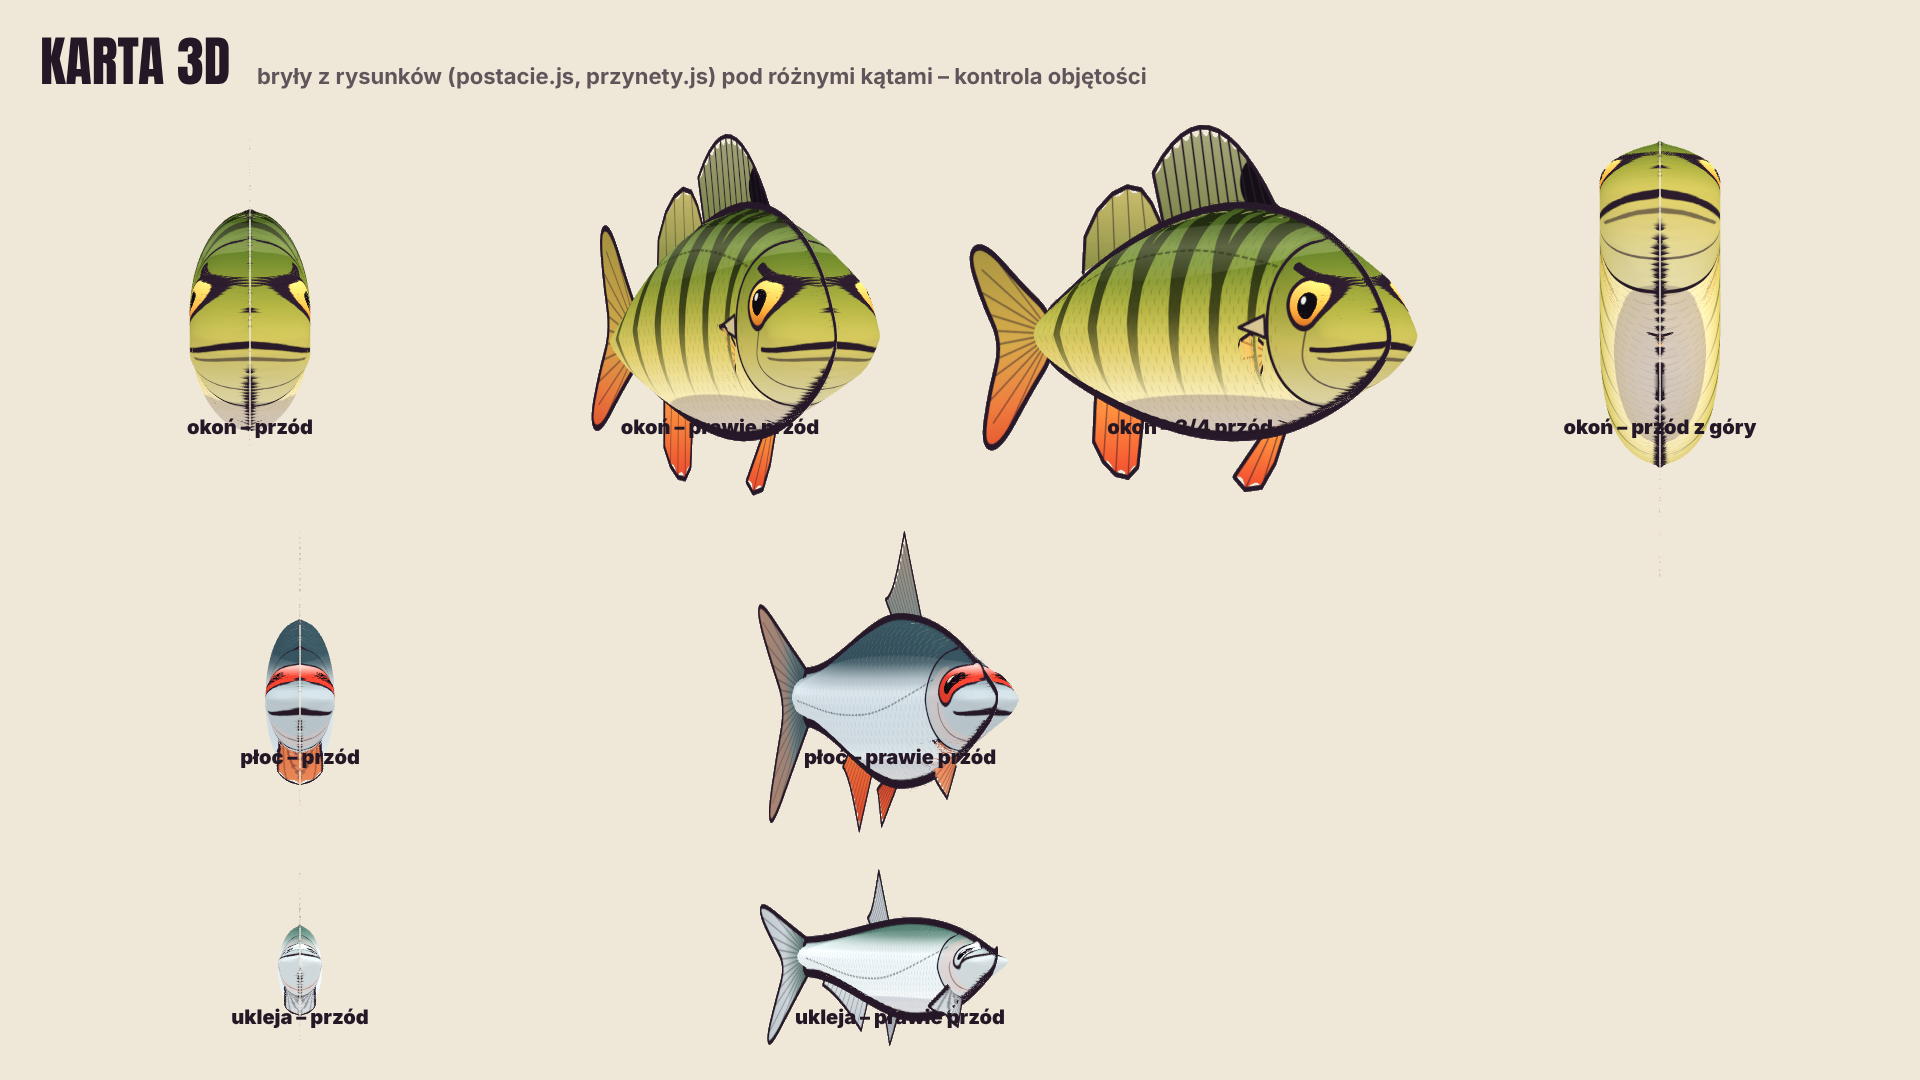
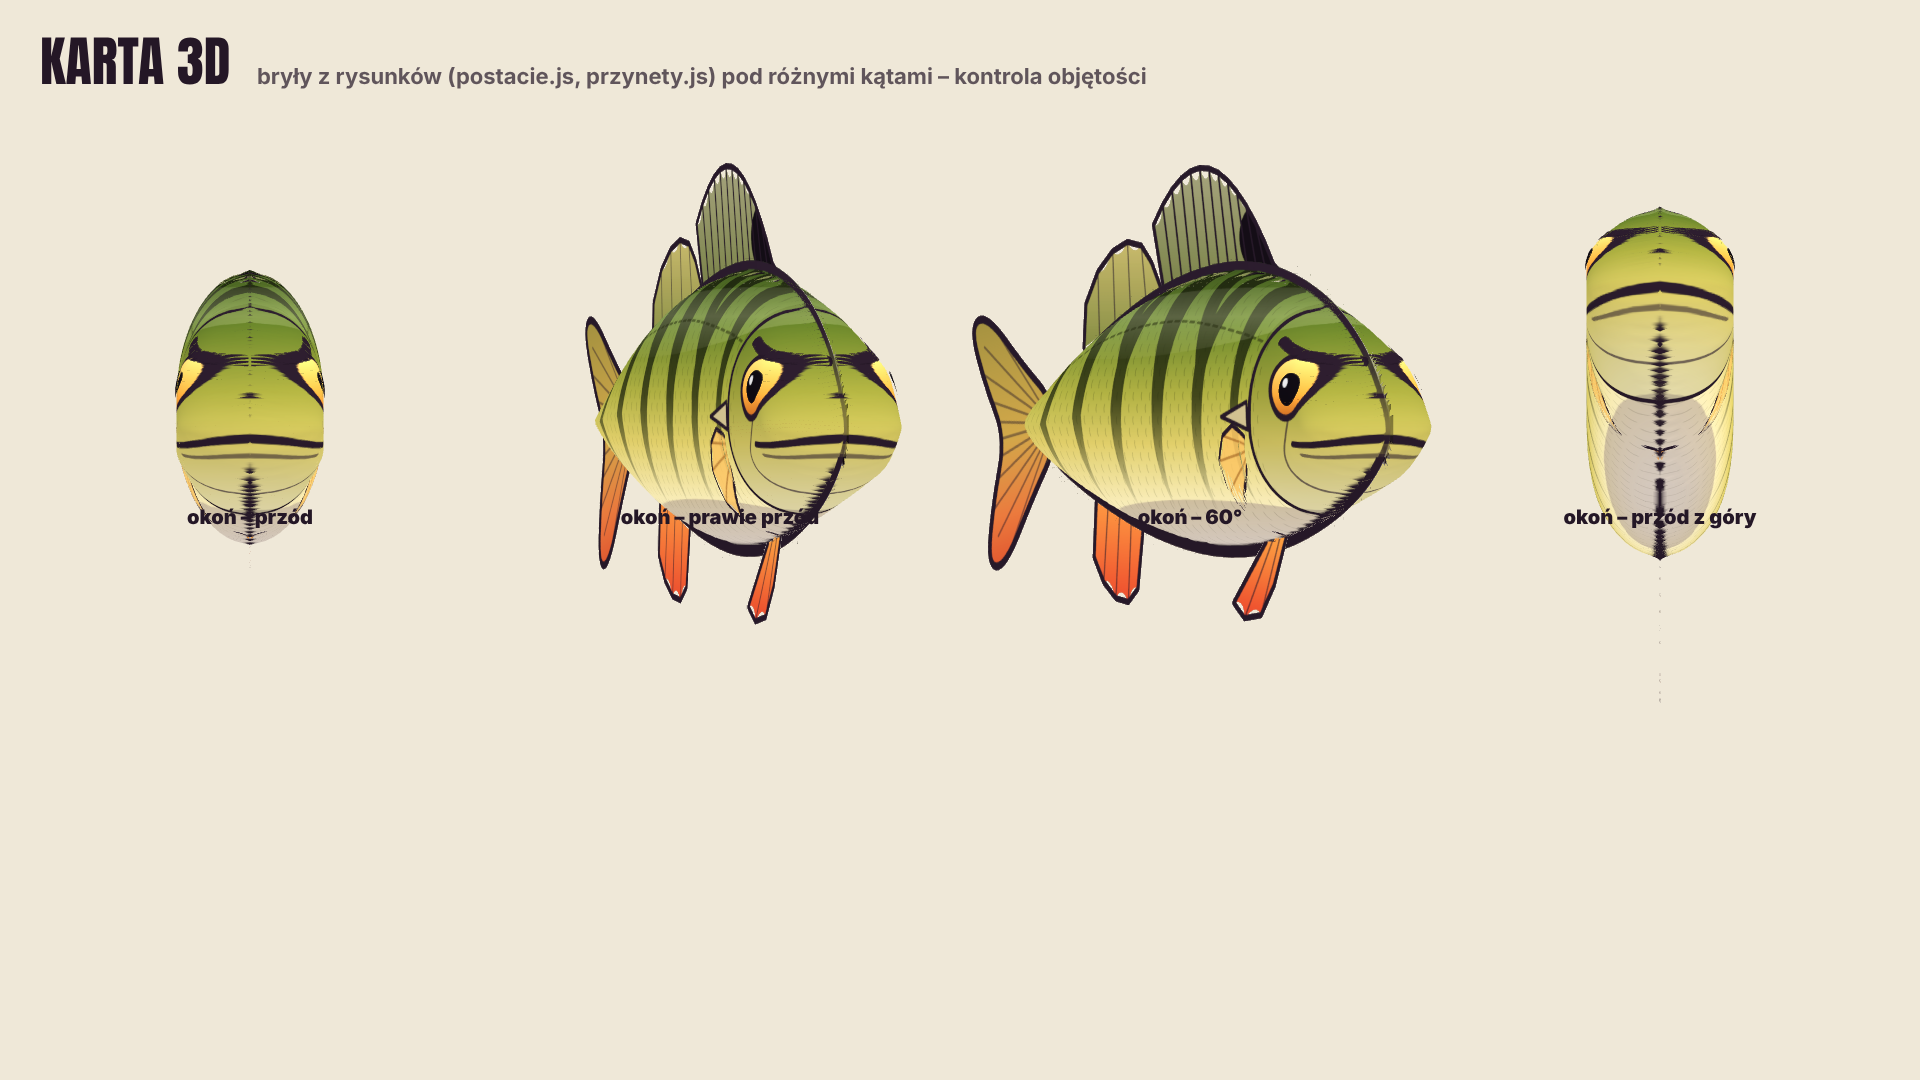
Mewa: gładka bryła (tułów z głową bez szwów), szary płaszcz kolorem, obrys skrzydeł i ogona; okoń: bez pionowej kreski z przodu (bryła bez rantu, kontur z rysunku tylko na brzegu sylwetki)
Claude-Session: https://claude.ai/code/session_01YFDAx3363ZnHR5mXZwci3a

diff --git a/atlas3d/rekwizyty.js b/atlas3d/rekwizyty.js
@@ -338,60 +338,67 @@ export function wazka({ dl = .3 } = {}) {
 }
 // mewa (śmieszka / mewa pospolita): biały tułów, szaro-popielate skrzydła z czarnymi końcami, żółty dziób; oś ciała +x = głowa
 // anim(t, { mach }) – machanie skrzydłami; skrzydła złożone (mach = 0) przy nurkowaniu
-// Mewa (śmieszka/srebrzysta, styl kreskówkowy): opływowy tułów z toczenia, szary płaszcz na grzbiecie, żółty zakrzywiony dziób z czerwoną plamką,
-// skrzydła z dwóch członów (ramię + dłoń) z namalowanym wzorem: szary wierzch, biała krawędź spływu, czarne końce z białymi „lusterkami”.
-// Ruch: machanie (dłoń z opóźnieniem względem ramienia → miękki łuk), szybowanie (lekkie „M”), nurkowanie (skrzydła złożone do tyłu).
-const MEWA_TEX = {};
-function mewaTekstura(rodzaj) {
-  if (MEWA_TEX[rodzaj]) return MEWA_TEX[rodzaj];
+// Mewa (styl kreskówkowy, jak ryby: kolor + rysowany obrys): gładki tułów z głową w jednej bryle (bez szwów, które kompozycja rysowała jako kreski),
+// szary płaszcz na grzbiecie malowany kolorem wierzchołków, żółty zakrzywiony dziób z czerwoną plamką, skrzydła z dwóch członów (ramię + dłoń)
+// i ogon z namalowanym wzorem i ciemnym obrysem (poza krawędzią przy tułowiu). Ruch: machanie, szybowanie, nurkowanie.
+function mewaTekstura(rodzaj, uvObrys) {
   const c = document.createElement('canvas'); c.width = c.height = 256; const x = c.getContext('2d'), W = 256;
   // u = rozpiętość (0 = nasada → 1 = koniec), v = cięciwa (0 = krawędź spływu → 1 = krawędź natarcia); canvas: y odwrócone
-  x.fillStyle = '#b4c0cc'; x.fillRect(0, 0, W, W);
-  const g = x.createLinearGradient(0, W, 0, 0); g.addColorStop(0, '#ffffff'); g.addColorStop(.16, '#ffffff'); g.addColorStop(.2, '#b4c0cc'); g.addColorStop(.8, '#bcc7d2'); g.addColorStop(1, '#cfd8e0');
-  x.fillStyle = g; x.fillRect(0, 0, W, W);
-  if (rodzaj === 'dlon') {
-    x.fillStyle = '#1b1f26'; x.beginPath(); x.moveTo(W * .5, W); x.quadraticCurveTo(W * .58, W * .5, W * .62, 0); x.lineTo(W, 0); x.lineTo(W, W); x.closePath(); x.fill();
-    x.fillStyle = '#ffffff'; for (const [u, v, r] of [[.78, .55, .07], [.9, .42, .05]]) { x.beginPath(); x.ellipse(u * W, (1 - v) * W, r * W * 1.3, r * W, 0, 0, 7); x.fill(); }
-    x.strokeStyle = 'rgba(0,0,0,.18)'; x.lineWidth = 3; for (let u = .55; u < .98; u += .07) { x.beginPath(); x.moveTo(u * W, W); x.lineTo((u + .05) * W, W * .35); x.stroke(); }   // lotki
-  } else { x.strokeStyle = 'rgba(70,85,100,.22)'; x.lineWidth = 3; for (let u = .1; u < 1; u += .12) { x.beginPath(); x.moveTo(u * W, W); x.lineTo((u + .03) * W, W * .62); x.stroke(); } }
-  const t = new THREE.CanvasTexture(c); t.colorSpace = THREE.SRGBColorSpace; return (MEWA_TEX[rodzaj] = t);
+  if (rodzaj === 'ogon') { x.fillStyle = '#f6f8fa'; x.fillRect(0, 0, W, W); }
+  else {
+    const g = x.createLinearGradient(0, W, 0, 0); g.addColorStop(0, '#ffffff'); g.addColorStop(.16, '#ffffff'); g.addColorStop(.21, '#b4c0cc'); g.addColorStop(.8, '#bcc7d2'); g.addColorStop(1, '#cfd8e0');
+    x.fillStyle = g; x.fillRect(0, 0, W, W);
+    if (rodzaj === 'dlon') {
+      x.fillStyle = '#1b1f26'; x.beginPath(); x.moveTo(W * .5, W); x.quadraticCurveTo(W * .58, W * .5, W * .62, 0); x.lineTo(W, 0); x.lineTo(W, W); x.closePath(); x.fill();
+      x.fillStyle = '#ffffff'; for (const [u, v, r] of [[.78, .55, .07], [.9, .42, .05]]) { x.beginPath(); x.ellipse(u * W, (1 - v) * W, r * W * 1.3, r * W, 0, 0, 7); x.fill(); }
+      x.strokeStyle = 'rgba(0,0,0,.18)'; x.lineWidth = 3; for (let u = .55; u < .98; u += .07) { x.beginPath(); x.moveTo(u * W, W); x.lineTo((u + .05) * W, W * .35); x.stroke(); }   // lotki
+    } else { x.strokeStyle = 'rgba(70,85,100,.22)'; x.lineWidth = 3; for (let u = .1; u < 1; u += .12) { x.beginPath(); x.moveTo(u * W, W); x.lineTo((u + .03) * W, W * .62); x.stroke(); } }
+  }
+  // obrys: krawędzie kształtu poza nasadą (u ≈ 0 – tam skrzydło łączy się z tułowiem / ramieniem)
+  x.strokeStyle = '#241726'; x.lineWidth = 16; x.lineCap = x.lineJoin = 'round';
+  for (let i = 0; i < uvObrys.length; i++) { const [u1, v1] = uvObrys[i], [u2, v2] = uvObrys[(i + 1) % uvObrys.length]; if (u1 < .02 && u2 < .02) continue; if (rodzaj === 'ramie' && u1 > .98 && u2 > .98) continue;   // styk ramienia z dłonią – bez kreski w poprzek skrzydła
+    x.beginPath(); x.moveTo(u1 * W, (1 - v1) * W); x.lineTo(u2 * W, (1 - v2) * W); x.stroke(); }
+  const t = new THREE.CanvasTexture(c); t.colorSpace = THREE.SRGBColorSpace; t.anisotropy = 4; return t;
 }
 export function mewa({ dl = .5 } = {}) {
-  const g = new THREE.Group(), k = dl / .5, biala = toon('#f6f8fa'), szara = toon('#b4c0cc'), dziobM = toon('#f4c430'), czerw = toon('#e0402a'), oko = toon('#111111'), blik = new THREE.MeshBasicMaterial({ color: '#ffffff' });
-  const kula = (r, m, x, y, z, sx = 1, sy = 1, sz = 1, rodzic = g) => { const o = new THREE.Mesh(new THREE.SphereGeometry(r * k, 20, 14), m); o.position.set(x * k, y * k, z * k); o.scale.set(sx, sy, sz); rodzic.add(o); return o; };
-  // tułów: profil toczony wzdłuż osi X (ogon → pierś), lekko spłaszczony z boków
-  const prof = [[0, -.21], [.022, -.19], [.045, -.13], [.07, -.05], [.078, .02], [.07, .08], [.05, .12], [0, .15]].map(([r, y]) => new THREE.Vector2(r * k, y * k));
-  const tg = new THREE.LatheGeometry(prof, 24); tg.rotateZ(-Math.PI / 2); const tul = new THREE.Mesh(tg, biala); tul.scale.set(1, .92, .86); g.add(tul);
-  kula(.07, szara, -.02, .028, 0, 1.9, .55, .85);                                                // szary płaszcz na grzbiecie
-  const glowa = new THREE.Group(); glowa.position.set(.15 * k, .05 * k, 0); g.add(glowa);
-  kula(.058, biala, 0, 0, 0, 1.12, 1, .92, glowa); kula(.04, biala, -.04, -.03, 0, 1.2, 1, .9, glowa);   // głowa + szyja
-  for (const s of [-1, 1]) { kula(.011, oko, .025, .016, s * .044, 1, 1.1, .6, glowa); kula(.0035, blik, .03, .021, s * .05, 1, 1, 1, glowa); }   // oczy z blikiem
+  const g = new THREE.Group(), k = dl / .5, dziobM = toon('#f4c430'), czerw = toon('#e0402a'), oko = toon('#111111'), blik = new THREE.MeshBasicMaterial({ color: '#ffffff' });
+  const kula = (r, m, x, y, z, sx = 1, sy = 1, sz = 1, rodzic = g) => { const o = new THREE.Mesh(new THREE.SphereGeometry(r * k, 24, 16), m); o.position.set(x * k, y * k, z * k); o.scale.set(sx, sy, sz); rodzic.add(o); return o; };
+  // tułów + szyja + głowa: gładki profil toczony wzdłuż osi X (ogon → dziób), głowa uniesiona łagodnym wygięciem osi
+  const prof = new THREE.SplineCurve([[0, -.215], [.03, -.19], [.052, -.13], [.072, -.06], [.08, .0], [.074, .06], [.056, .105], [.046, .13], [.05, .16], [.054, .185], [.046, .215], [.026, .238], [0, .248]].map(([r, y]) => new THREE.Vector2(r, y))).getPoints(60);
+  const tg = new THREE.LatheGeometry(prof.map(v => new THREE.Vector2(Math.max(v.x, 0) * k, v.y * k)), 56); tg.rotateZ(-Math.PI / 2);
+  const P = tg.attributes.position, kol = [], sm2 = (a, b, v) => { const t = Math.min(1, Math.max(0, (v - a) / (b - a))); return t * t * (3 - 2 * t); };
+  for (let i = 0; i < P.count; i++) { const X = P.getX(i) / k; P.setY(i, P.getY(i) * .92 + .034 * k * sm2(.07, .17, X)); P.setZ(i, P.getZ(i) * .86); }
+  tg.computeVertexNormals(); const N = tg.attributes.normal;
+  const bialy = new THREE.Color('#f6f8fa'), szary = new THREE.Color('#b4c0cc');
+  for (let i = 0; i < P.count; i++) { const X = P.getX(i) / k, ny = N.getY(i), w = sm2(-.05, .4, ny) * sm2(-.17, -.1, X) * (1 - sm2(.05, .11, X)); const c = bialy.clone().lerp(szary, w); kol.push(c.r, c.g, c.b); }   // płaszcz na grzbiecie
+  tg.setAttribute('color', new THREE.Float32BufferAttribute(kol, 3));
+  g.add(new THREE.Mesh(tg, toon('#ffffff', { vertexColors: true })));
+  const gl = [.185, .034, 0];   // środek głowy (po wygięciu osi)
+  for (const s of [-1, 1]) { kula(.011, oko, gl[0] + .012, gl[1] + .008, s * .042, 1, 1.1, .55); kula(.0035, blik, gl[0] + .016, gl[1] + .013, s * .047); }   // oczy z blikiem
   const dz = new THREE.Shape(); dz.moveTo(0, .016); dz.quadraticCurveTo(.05, .02, .085, .006); dz.quadraticCurveTo(.095, -.006, .084, -.014); dz.lineTo(.07, -.006); dz.quadraticCurveTo(.04, -.014, 0, -.016); dz.closePath();
-  const dg = new THREE.ExtrudeGeometry(dz, { depth: .022, bevelEnabled: true, bevelSize: .004, bevelThickness: .004, bevelSegments: 2, curveSegments: 8 }); dg.translate(0, 0, -.011); dg.scale(k, k, k);
-  const dziob = new THREE.Mesh(dg, dziobM); dziob.position.set(.05 * k, -.004 * k, 0); glowa.add(dziob);
-  kula(.006, czerw, .122, -.012, 0, 1.2, 1, 2.2, glowa);                                       // czerwona plamka na żuchwie
-  const og = new THREE.Shape(); og.moveTo(0, -.035); og.lineTo(-.075, -.05); og.quadraticCurveTo(-.085, 0, -.075, .05); og.lineTo(0, .035); og.closePath();
-  const ogg = new THREE.ShapeGeometry(og, 8); ogg.scale(k, k, k); ogg.rotateX(Math.PI / 2); const ogon = new THREE.Mesh(ogg, toon('#f6f8fa', { side: THREE.DoubleSide })); ogon.position.set(-.17 * k, .012 * k, 0); g.add(ogon);
-  // skrzydła: obrys w rzeczywistych wymiarach (X = rozpiętość od nasady, Y = położenie wzdłuż tułowia, + do przodu) → wierzchołki (x = Y, z = ±X);
-  // UV: u = X / długość, v = od krawędzi spływu (0) do natarcia (1) – wzór z mewaTekstura()
-  const czlon = (obrys, dl, rodzaj, str) => { const sh = new THREE.Shape(); sh.moveTo(...obrys[0]); for (let i = 1; i < obrys.length; i++) obrys[i].length === 4 ? sh.quadraticCurveTo(...obrys[i]) : sh.lineTo(...obrys[i]); sh.closePath();
-    const geo = new THREE.ShapeGeometry(sh, 12), P = geo.attributes.position, UV = geo.attributes.uv;
-    let y0 = 1e9, y1 = -1e9; for (let i = 0; i < P.count; i++) { y0 = Math.min(y0, P.getY(i)); y1 = Math.max(y1, P.getY(i)); }
-    for (let i = 0; i < P.count; i++) { const X = P.getX(i), Y = P.getY(i); UV.setXY(i, X / dl, (Y - y0) / (y1 - y0)); P.setXYZ(i, Y * k, 0, str * X * k); }
-    geo.computeVertexNormals(); return new THREE.Mesh(geo, toon('#ffffff', { map: mewaTekstura(rodzaj), side: THREE.DoubleSide })); };
-  // ramię: szerokie przy tułowiu, prosta krawędź natarcia; dłoń: długa, wąska, odgięta do tyłu i ostro zakończona
+  const dg = new THREE.ExtrudeGeometry(dz, { depth: .02, bevelEnabled: true, bevelSize: .005, bevelThickness: .005, bevelSegments: 4, curveSegments: 16 }); dg.translate(0, 0, -.01); dg.scale(k, k, k);
+  const dziob = new THREE.Mesh(dg, dziobM); dziob.position.set(.222 * k, (gl[1] - .012) * k, 0); g.add(dziob);
+  kula(.006, czerw, .3, gl[1] - .024, 0, 1.2, 1, 2.6);                                         // czerwona plamka na żuchwie
+  // płaskie części z wzorem i obrysem: obrys (X wzdłuż rozpiętości, Y wzdłuż tułowia) → wierzchołki (x = Y, z = ±X), lekko wygięte w łuk (profil skrzydła)
+  const plaski = (obrys, dl, rodzaj, str, luk = .012) => { const sh = new THREE.Shape(); sh.moveTo(...obrys[0]); for (let i = 1; i < obrys.length; i++) obrys[i].length === 4 ? sh.quadraticCurveTo(...obrys[i]) : sh.lineTo(...obrys[i]); sh.closePath();
+    const pk = sh.getPoints(24); let y0 = 1e9, y1 = -1e9; for (const p of pk) { y0 = Math.min(y0, p.y); y1 = Math.max(y1, p.y); }
+    const geo = new THREE.ShapeGeometry(sh, 24), Q = geo.attributes.position, UV = geo.attributes.uv;
+    for (let i = 0; i < Q.count; i++) { const X = Q.getX(i), Y = Q.getY(i), v = (Y - y0) / (y1 - y0); UV.setXY(i, X / dl, v); Q.setXYZ(i, Y * k, luk * Math.sin(Math.PI * v) * k, str * X * k); }
+    geo.computeVertexNormals(); return new THREE.Mesh(geo, toon('#ffffff', { map: mewaTekstura(rodzaj, pk.map(p => [p.x / dl, (p.y - y0) / (y1 - y0)])), side: THREE.DoubleSide })); };
+  // ogon: wachlarz za tułowiem (X = połowa szerokości, symetrycznie po obu stronach)
+  for (const str of [-1, 1]) { const o = plaski([[0, 0], [.05, -.004, .056, -.06], [.03, -.085, 0, -.088]], .06, 'ogon', str, .004); o.position.set(-.17 * k, .008 * k, 0); g.add(o); }
   const RAMIE = [[0, .06], [.2, .055], [.2, -.06], [.1, -.075, 0, -.09]];
   const DLON = [[0, .055], [.16, .04, .27, -.06], [.24, -.07, .18, -.065], [.08, -.06, 0, -.06]];
   const skrzydla = [];
-  for (const str of [-1, 1]) { const ram = new THREE.Group(); ram.position.set(.01 * k, .045 * k, str * .045 * k); g.add(ram);
-    ram.add(czlon(RAMIE, .2, 'ramie', str));
-    const dlon = new THREE.Group(); dlon.position.set(0, 0, str * .198 * k); ram.add(dlon); dlon.add(czlon(DLON, .27, 'dlon', str));
+  for (const str of [-1, 1]) { const ram = new THREE.Group(); ram.position.set(.01 * k, .05 * k, str * .042 * k); g.add(ram);
+    ram.add(plaski(RAMIE, .2, 'ramie', str));
+    const dlon = new THREE.Group(); dlon.position.set(0, 0, str * .198 * k); ram.add(dlon); dlon.add(plaski(DLON, .27, 'dlon', str));
     skrzydla.push({ ram, dlon, str }); }
   g.userData = { kolysz: [], kolizja: [], anim: (t, { mach = 1, szybuj = false } = {}) => {
     const w = t * 2 * Math.PI * 2.6;
     for (const { ram, dlon, str } of skrzydla) {
       let a, b, sw = 0;   // a – uniesienie ramienia, b – zgięcie dłoni (dodatnie = w górę), sw – odgięcie do tyłu
-      if (mach === 0) { a = .35; b = -.2; sw = .9; }                                   // nurkowanie: skrzydła złożone wysoko i do tyłu
+      if (mach === 0) { a = .35; b = -.2; sw = .9; }                                     // nurkowanie: skrzydła złożone wysoko i do tyłu
       else if (szybuj) { a = .14 + .03 * Math.sin(t * 2); b = -.2; sw = .12; }            // szybowanie: płytkie „M”
       else { a = .12 + .62 * Math.sin(w) * mach; b = -.1 + .55 * Math.sin(w - .9) * mach; sw = .1 - .08 * Math.sin(w); }
       ram.rotation.set(-str * a, -str * sw, 0); dlon.rotation.set(-str * b, -str * sw * .6, 0); }

diff --git a/atlas3d/postacie.js b/atlas3d/postacie.js
@@ -71,7 +71,7 @@ function zloz(czesci, kolejnoscBazowa, opcje3d = {}) {
 // Oświetlenie: Lambert z rysunkiem także jako emisją – kolory jak w rysunku, a światło sceny dodaje objętość.
 const SIATKA = 4;
 // pas przy krawędzi sylwetki (szer px) wypełnia kolorem najbliższego piksela z wnętrza (BFS od wnętrza na zewnątrz); alfa bez zmian
-function zetrzyjKontur(cv, szer, tex) {
+function zetrzyjKontur(cv, szer, tex, pelnaAlfa = false) {   // pelnaAlfa: cały obraz nieprzezroczysty (kolor rozlany także poza sylwetkę)
   const g = cv.getContext('2d'), W = cv.width, H = cv.height, im = g.getImageData(0, 0, W, H), d = im.data, N = W * H;
   const dist = new Float32Array(N).fill(1e9), q = new Int32Array(N); let h = 0, t = 0;
   for (let i = 0; i < N; i++) if (d[i * 4 + 3] < 40) { dist[i] = 0; q[t++] = i; }
@@ -83,6 +83,7 @@ function zetrzyjKontur(cv, szer, tex) {
   while (h < t) { const i = q[h++], x = i % W, y = (i / W) | 0;
     for (const [dx, dy] of [[1, 0], [-1, 0], [0, 1], [0, -1]]) { const xx = x + dx, yy = y + dy; if (xx < 0 || yy < 0 || xx >= W || yy >= H) continue; const j = yy * W + xx;
       if (src[j] < 0) { src[j] = src[i]; const k = src[i] * 4; d[j * 4] = d[k]; d[j * 4 + 1] = d[k + 1]; d[j * 4 + 2] = d[k + 2]; q[t++] = j; } } }
+  if (pelnaAlfa) for (let i = 0; i < N; i++) d[i * 4 + 3] = 255;
   g.putImageData(im, 0, 0); if (tex) tex.needsUpdate = true;
 }   // krok siatki w px projektu
 // bryla – części tworzące objętość (domyślnie największa część, np. ciało ryby); płetwy, ogon i inne części poza bryłą są cienkie
@@ -125,7 +126,7 @@ function nadmuchaj(czesci, { T, D, plaskie = [], bryla, ob = 15, wypuklosci = []
       for (let j = 0; j <= ny; j++) for (let i = 0; i <= nx; i++) { const px = Math.min(W - 1, Math.round(i / nx * (W - 1))), py = Math.min(Hh - 1, Math.round(j / ny * (Hh - 1)));
         let m = 0; for (let dy = -2; dy <= 2; dy++) for (let dx = -2; dx <= 2; dx++) { const xx = Math.min(W - 1, Math.max(0, px + dx * Math.ceil(res * SIATKA / 4))), yy = Math.min(Hh - 1, Math.max(0, py + dy * Math.ceil(res * SIATKA / 4))); m = Math.max(m, dat[(yy * W + xx) * 4 + 3]); }
         if (m > 10) al[j * (nx + 1) + i] = 1; } }
-    const poz = [], uv = [], idx = [], nr = new Int32Array((nx + 1) * (ny + 1)).fill(-1), eps = .5 + .12 * c.userData.kolejnosc;   // warstwy tuż przy powierzchni (oko, źrenica, brew bez paralaksy); kolejność rysowania z polygonOffset   // każda warstwa wyraźnie nad poprzednią (źrenica nad okiem, oko nad ciałem) – bez przebijania przy różnej gęstości siatek   // nakładki tuż nad powierzchnią (bez odstawania)
+    const poz = [], uv = [], idx = [], nr = new Int32Array((nx + 1) * (ny + 1)).fill(-1), eps = bryla.includes(c) && bryla !== czesci ? 0 : .5 + .12 * c.userData.kolejnosc;   // warstwy tuż przy powierzchni (oko, źrenica, brew bez paralaksy); kolejność rysowania z polygonOffset   // każda warstwa wyraźnie nad poprzednią (źrenica nad okiem, oko nad ciałem) – bez przebijania przy różnej gęstości siatek   // nakładki tuż nad powierzchnią (bez odstawania)
     for (let strona = 0; strona < 2; strona++) {
       nr.fill(-1);
       for (let j = 0; j <= ny; j++) for (let i = 0; i <= nx; i++) {
@@ -157,7 +158,23 @@ function nadmuchaj(czesci, { T, D, plaskie = [], bryla, ob = 15, wypuklosci = []
     c.material.userData.jasnosc = .5; c.material.color.setScalar(.5);
     c.material.polygonOffset = true; c.material.polygonOffsetFactor = -c.userData.kolejnosc * .6; c.material.polygonOffsetUnits = -c.userData.kolejnosc * 4;
     if (bryla.includes(c) && bryla !== czesci) c.material.alphaTest = .35;
-    if (bryla.includes(c) && bryla !== czesci) c.layers.enable(5);   // bryła: kształt wyznacza siatka, bez dziur przy brzegu (przez dziury prześwitywał czarny kontur)
+    if (bryla.includes(c) && bryla !== czesci) c.layers.enable(5);
+    // kontur z rysunku tylko tam, gdzie brzeg bryły jest brzegiem sylwetki (widok z boku); gdy na szew patrzymy na wprost (np. pysk z przodu),
+    // kontur i jasne piksele brzegu zastępuje kolor ciała – bez pionowej kreski przez środek głowy. kontN: kierunek „na zewnątrz” konturu (w płaszczyźnie rysunku)
+    if (bryla.includes(c) && bryla !== czesci && map) {
+      const cv2 = document.createElement('canvas'); cv2.width = map.image.width; cv2.height = map.image.height; cv2.getContext('2d').drawImage(map.image, 0, 0); zetrzyjKontur(cv2, Math.ceil(ob * res), null, true);
+      const mapBez = new THREE.CanvasTexture(cv2); mapBez.colorSpace = map.colorSpace; mapBez.anisotropy = map.anisotropy;
+      const P = c.geometry.attributes.position, kn = new Float32Array(P.count * 3), D0 = (x, y) => { const gx = Math.round((x - X0) * k + 1), gy = Math.round((y - Y0) * k + 1); return gx < 0 || gy < 0 || gx >= uw || gy >= uh ? 0 : Math.min(dist[gy * uw + gx], 40); };
+      for (let i = 0; i < P.count; i++) { const x = P.getX(i) / s + piwot[0], y = piwot[1] - P.getY(i) / s; let gx = 0, gy = 0; for (const r of [3, 6, 9]) { gx += D0(x + r, y) - D0(x - r, y); gy += D0(x, y + r) - D0(x, y - r); }
+        const l = Math.hypot(gx, gy); if (l > 1e-6) { kn[i * 3] = -gx / l; kn[i * 3 + 1] = gy / l; } }
+      c.geometry.setAttribute('kontN', new THREE.BufferAttribute(kn, 3));
+      c.material.onBeforeCompile = sh => { sh.uniforms.mapBez = { value: mapBez };
+        sh.vertexShader = 'attribute vec3 kontN;\nvarying vec3 vKontN;\n' + sh.vertexShader.replace('#include <begin_vertex>', '#include <begin_vertex>\n  vKontN = normalMatrix * kontN;');
+        sh.fragmentShader = 'uniform sampler2D mapBez;\nvarying vec3 vKontN;\n' + sh.fragmentShader
+          .replace('#include <map_fragment>', 'vec3 vDirK = isOrthographic ? vec3(0., 0., 1.) : normalize(vViewPosition);\nfloat fKont = length(vKontN) > .01 ? smoothstep(.55, .92, abs(dot(normalize(vKontN), vDirK))) : 0.;\nvec4 kOryg = texture2D(map, vMapUv), kBez = texture2D(mapBez, vMapUv);\n#ifdef USE_MAP\n  vec4 sampledDiffuseColor = vec4(mix(kOryg.rgb, kBez.rgb, max(fKont, 1. - kOryg.a)), mix(kOryg.a, 1., fKont));\n  diffuseColor *= sampledDiffuseColor;\n#endif')
+          .replace('vec4 emissiveColor = texture2D( emissiveMap, vEmissiveMapUv );', 'vec4 emissiveColor = vec4(mix(kOryg.rgb, kBez.rgb, max(fKont, 1. - kOryg.a)), 1.);'); };
+      c.material.customProgramCacheKey = () => 'bezKonturuZPrzodu';
+    }   // bryła: kształt wyznacza siatka, bez dziur przy brzegu (przez dziury prześwitywał czarny kontur)
     // kontur bryły (odwrócona otoczka): czarna skorupa widoczna tylko na krawędzi sylwetki pod każdym kątem; wspólna geometria – podąża za falą ciała
     if (false && bryla.includes(c) && bryla !== czesci) {   // (wyłączone) otoczka 3D – kontur sylwetki rysuje teraz kompozycja silnika (obrys maski postaci)
       const om = new THREE.MeshBasicMaterial({ color: INK, side: THREE.BackSide, toneMapped: false, polygonOffset: true, polygonOffsetFactor: 40, polygonOffsetUnits: 60 }), gr = (bryla[0] === c ? 10 : 8) * s;
